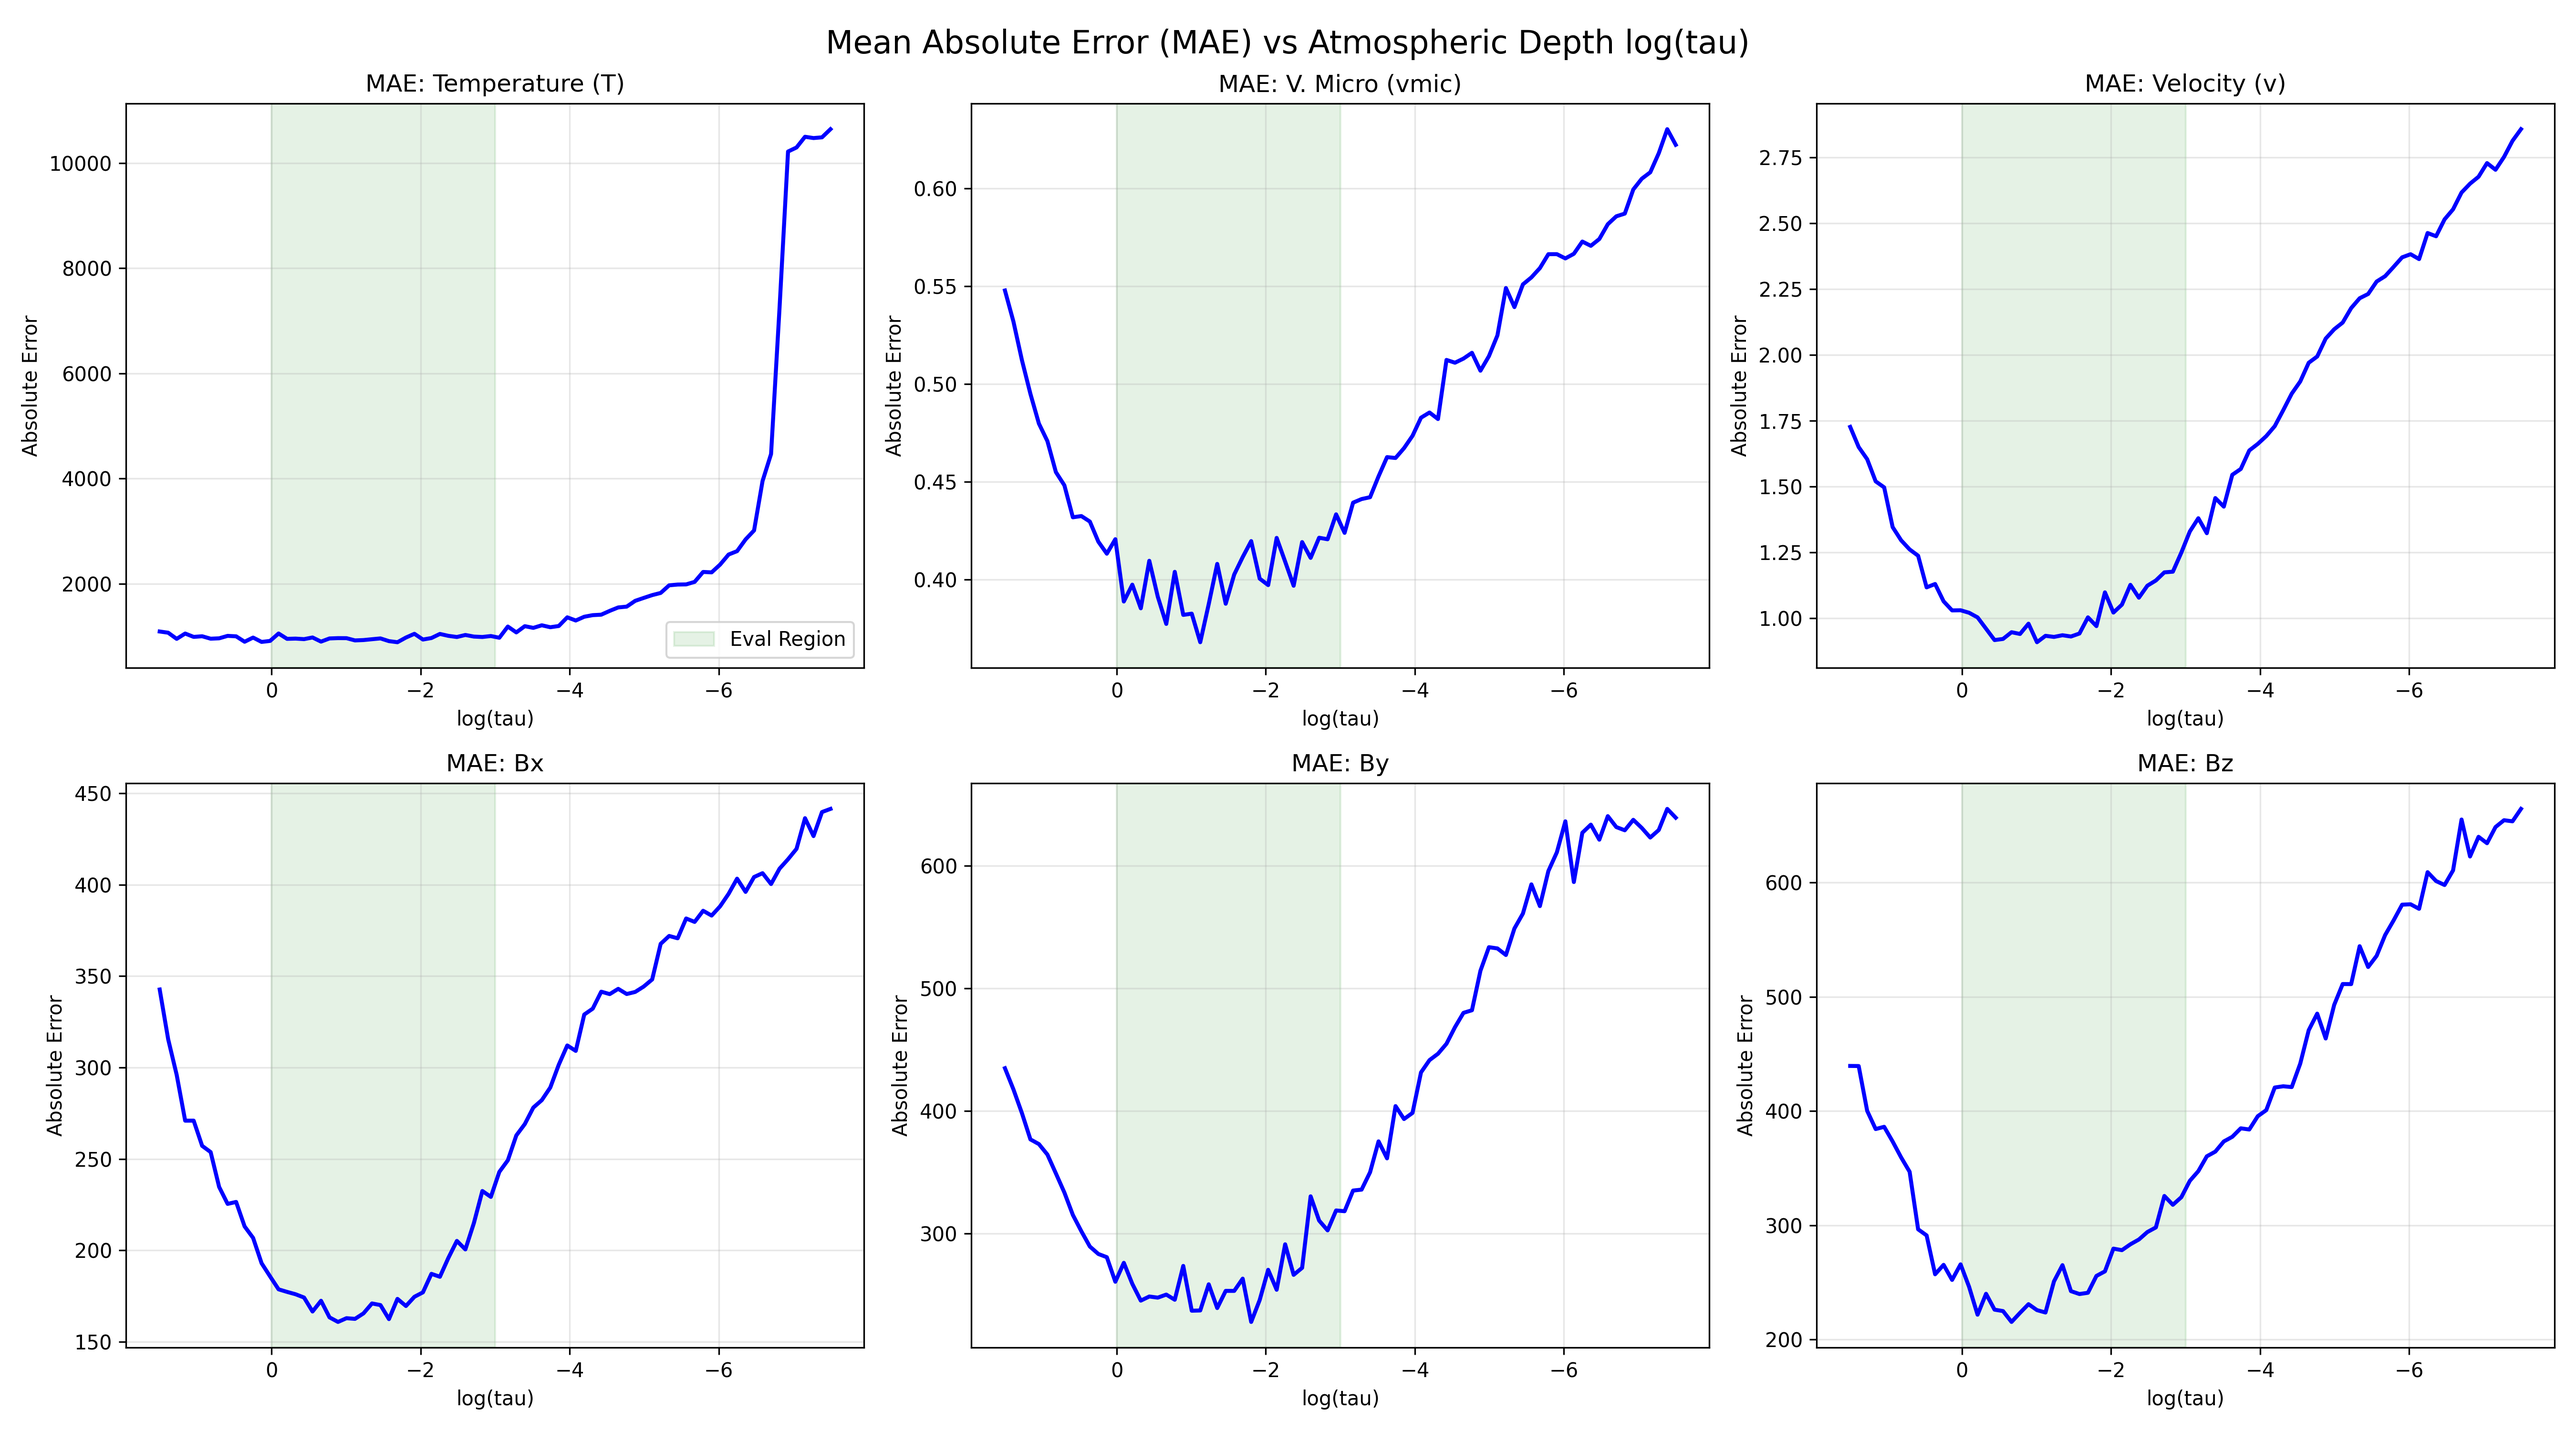
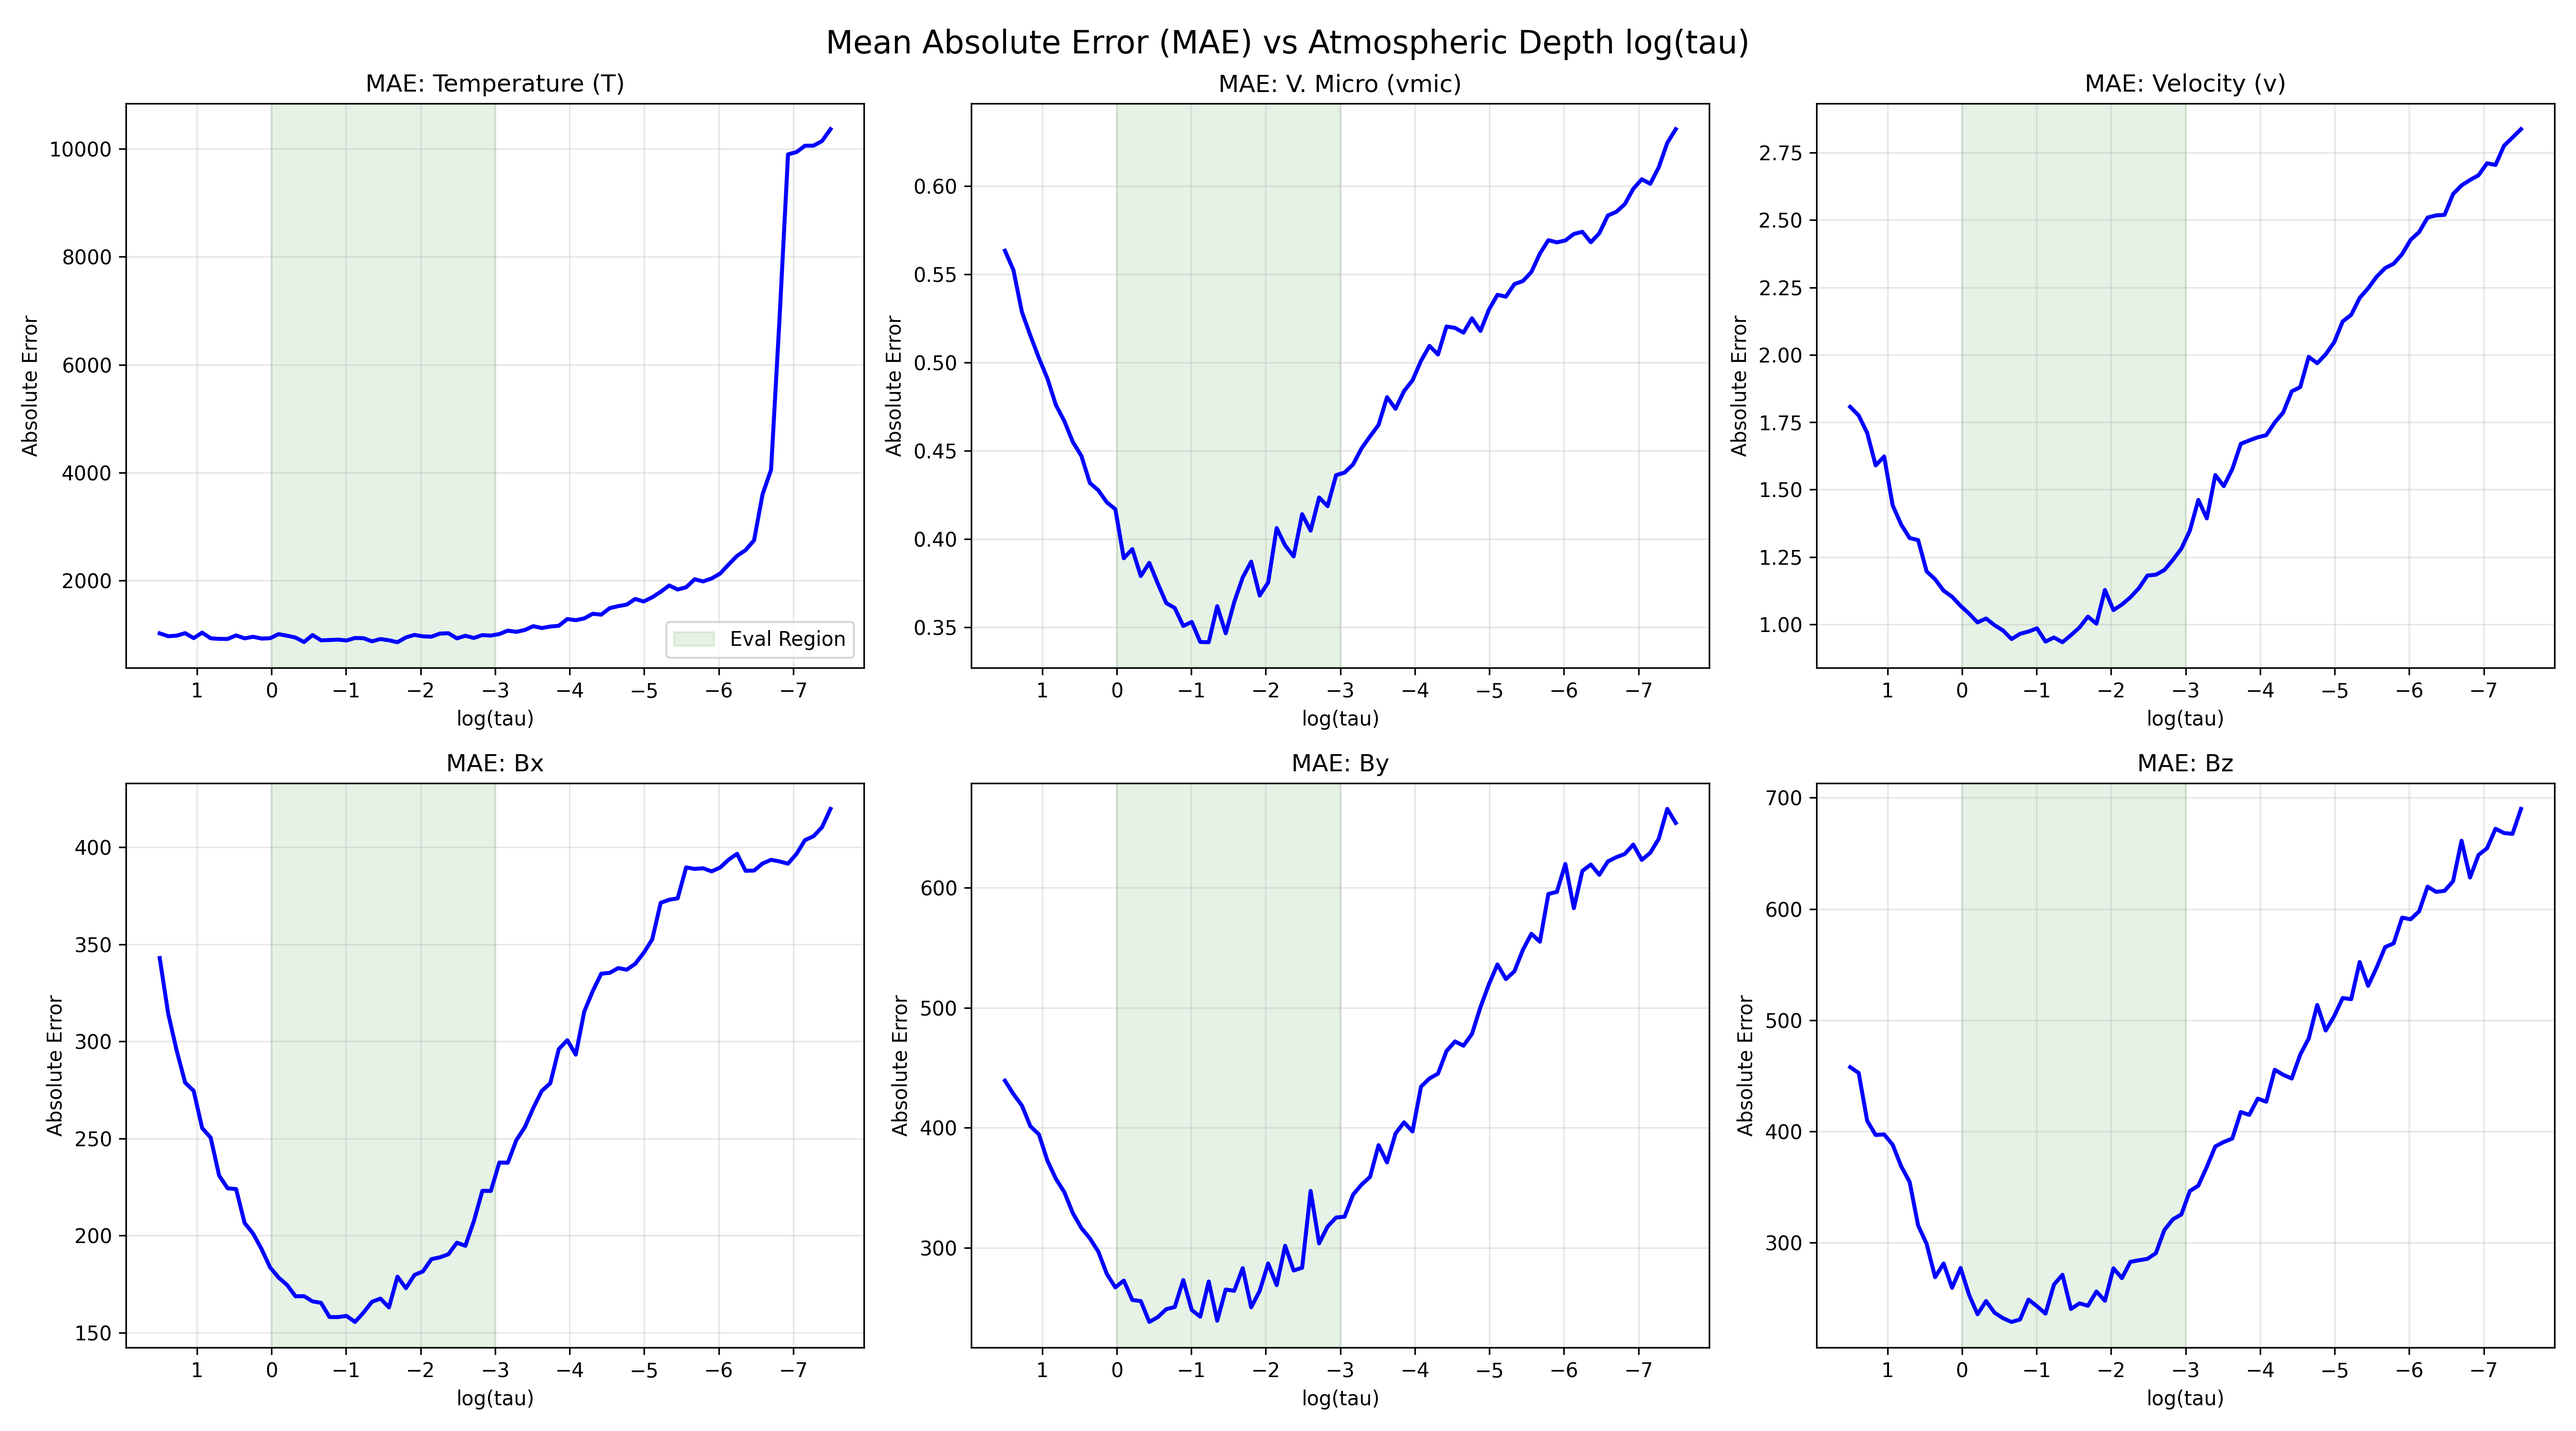
fix: added a correction for physicial axis

diff --git a/evaluate.py b/evaluate.py
@@ -7,7 +7,7 @@ from sklearn.metrics import mean_squared_error, mean_absolute_error, r2_score
 from models import SolarFlowModel
 from tqdm import tqdm
 
-CHECKPOINT_PATH = './checkpoints_multimodal/multimodal_ep50.pth'
+CHECKPOINT_PATH = './checkpoints_physical_noise/multimodal_ep50.pth'
 STATS_FILE = 'normalization_stats.npz'
 DATA_MASTER = './dataset/multimodal_stokes_testing.h5'
 DATA_MODELS = './dataset/database_models/models_testing.h5'
@@ -160,11 +160,75 @@ def plot_error_vs_depth(reals, preds, logtau):
         ax.set_xlabel('log(tau)')
         ax.set_ylabel('Absolute Error')
         ax.grid(True, alpha=0.3)
-        ax.invert_xaxis()
+        
+        ax.set_xticks([1, 0, -1, -2, -3, -4, -5, -6, -7])
+        if not ax.xaxis_inverted():
+            ax.invert_xaxis()
+            
         if i == 0: ax.legend()
         
     plt.tight_layout()
     plt.savefig(f"{PLOTS_DIR}/error_vs_depth.png", dpi=300)
+    plt.close()
+
+@torch.no_grad()
+def generate_dropout_figure(model, stokes_batch, region_batch, reals, logtau, s_mean, s_std, m_mean, m_std, steps=30, num_trajectories=50):
+    """
+    Genera inferencia con Modality Dropout manual (solo ve Fe I 630 nm).
+    """
+    model.eval()
+    
+    stokes_t = torch.from_numpy(stokes_batch[0:1]).float().to(DEVICE)
+    region_t = torch.from_numpy(region_batch[0:1]).to(DEVICE)
+    real_atmos = reals[0]
+    
+    s_mean_t = torch.from_numpy(s_mean).float().to(DEVICE).unsqueeze(0)
+    s_std_t = torch.from_numpy(s_std).float().to(DEVICE).unsqueeze(0)
+    
+    stokes_norm = (stokes_t - s_mean_t) / (s_std_t + 1e-6)
+    
+    mask = (region_t > 0).to(DEVICE)
+    
+    context = model.encoder(stokes_norm, region_t, padding_mask=mask)
+    
+    trajectories = []
+    
+    for _ in tqdm(range(num_trajectories), desc="Sampling Trajectories"):
+        x_t = torch.randn(1, 80, 6).to(DEVICE)
+        dt = 1.0 / steps
+        for i in range(steps):
+            t_tensor = torch.full((1, 1), i / steps, device=DEVICE)
+            velocity = model.vector_field(t_tensor, x_t, context)
+            x_t = x_t + velocity * dt
+            
+        pred_denorm = x_t.cpu().numpy()[0] * m_std[0, 0, :] + m_mean[0, 0, :]
+        trajectories.append(pred_denorm)
+        
+    trajectories = np.array(trajectories)
+    mean_pred = np.mean(trajectories, axis=0)
+    
+    fig, axes = plt.subplots(2, 3, figsize=(18, 10))
+    fig.suptitle('Inference under Modality Dropout (Only Fe I 630 nm) - 50 trajectories', fontsize=16)
+    
+    for i, ax in enumerate(axes.flatten()):
+        for j in range(num_trajectories):
+            ax.plot(logtau, trajectories[j, :, i], 'r-', alpha=0.1)
+            
+        ax.plot(logtau, mean_pred[:, i], 'r--', linewidth=2, label='AI Mean')
+        ax.plot(logtau, real_atmos[:, i], 'k-', linewidth=2, label='Real')
+        
+        ax.set_title(PHYSICAL_LABELS[i])
+        ax.set_xlabel('log(tau)')
+        ax.grid(True, alpha=0.3)
+        
+        ax.set_xticks([1, 0, -1, -2, -3, -4, -5, -6, -7])
+        if not ax.xaxis_inverted():
+            ax.invert_xaxis()
+            
+        if i == 0: ax.legend()
+        
+    plt.tight_layout()
+    plt.savefig(f"{PLOTS_DIR}/multimodal_inference_dropout_550.png", dpi=300)
     plt.close()
 
 def main():
@@ -172,15 +236,18 @@ def main():
         model = SolarFlowModel(CONFIG).to(DEVICE)
         model.load_state_dict(torch.load(CHECKPOINT_PATH, map_location=DEVICE, weights_only=True))
     except FileNotFoundError:
+        print(f"Checkpoint no encontrado en {CHECKPOINT_PATH}")
         return
 
     s_mean, s_std, m_mean, m_std = setup()
     stokes, reals, logtau, region_ids, lengths = get_eval_batch(NUM_EVAL_SAMPLES)
-    preds = run_evaluation(model, stokes, region_ids, s_mean, s_std, m_mean, m_std, steps=30)
     
+    preds = run_evaluation(model, stokes, region_ids, s_mean, s_std, m_mean, m_std, steps=30)
     calculate_and_save_metrics(reals, preds, logtau)
     plot_scatter_density(reals, preds, logtau)
     plot_error_vs_depth(reals, preds, logtau)
+    
+    generate_dropout_figure(model, stokes, region_ids, reals, logtau, s_mean, s_std, m_mean, m_std)
 
 if __name__ == "__main__":
     main()

diff --git a/inference.py b/inference.py
@@ -5,7 +5,7 @@ import h5py
 from scipy.signal import savgol_filter
 from models import SolarFlowModel
 
-CHECKPOINT_PATH = './checkpoints_multimodal/multimodal_ep50.pth'
+CHECKPOINT_PATH = './checkpoints_physical_noise/multimodal_ep50.pth'
 STATS_FILE = 'normalization_stats.npz'
 
 DATA_MASTER = './dataset/multimodal_stokes_testing.h5' 
@@ -121,13 +121,37 @@ def plot_results(real_stokes, real_phys, preds_phys, logtau, sample_idx):
         for n in range(NUM_SAMPLES):
             ax.plot(logtau, preds_phys[n, :, p_idx], 'r-', alpha=0.15)
             
-        ax.plot(logtau, preds_mean[:, p_idx], 'r--', linewidth=2, label='IA Mean')
-        
+        ax.plot(logtau, preds_mean[:, p_idx], 'r--', linewidth=2, label='AI Mean')
         ax.plot(logtau, real_phys[:, p_idx], 'k-', linewidth=2, label='Real')
         
         ax.set_title(phys_labels[i])
         ax.set_xlabel('log(tau)')
         ax.grid(True, alpha=0.3)
+        
+        # --- NUEVA SOLUCIÓN: Percentiles ---
+        # Cogemos el 96% central de las predicciones para ignorar picos locos
+        p_min = np.percentile(preds_phys[:, :, p_idx], 2)
+        p_max = np.percentile(preds_phys[:, :, p_idx], 98)
+        
+        # También miramos dónde está la realidad
+        r_min = real_phys[:, p_idx].min()
+        r_max = real_phys[:, p_idx].max()
+        
+        # El límite final abarca la realidad y el 96% de la IA
+        y_min = min(p_min, r_min)
+        y_max = max(p_max, r_max)
+        
+        rango = y_max - y_min
+        if rango == 0: rango = 1.0
+        
+        # Le damos un pelín de aire (10%) por arriba y por abajo
+        ax.set_ylim(y_min - (rango * 0.1), y_max + (rango * 0.1))
+        # -----------------------------------
+
+        ax.set_xticks([1, 0, -1, -2, -3, -4, -5, -6, -7])
+        if not ax.xaxis_inverted():
+            ax.invert_xaxis()
+        
         if i == 0: ax.legend()
         
     plt.tight_layout()
@@ -138,6 +162,7 @@ def main():
         model = SolarFlowModel(CONFIG).to(DEVICE)
         model.load_state_dict(torch.load(CHECKPOINT_PATH, map_location=DEVICE, weights_only=True))
     except FileNotFoundError:
+        print(f"No se encontró el modelo en {CHECKPOINT_PATH}")
         return
 
     idx = 550
